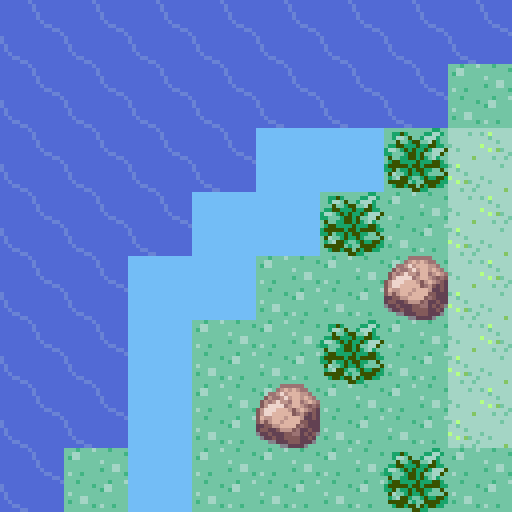
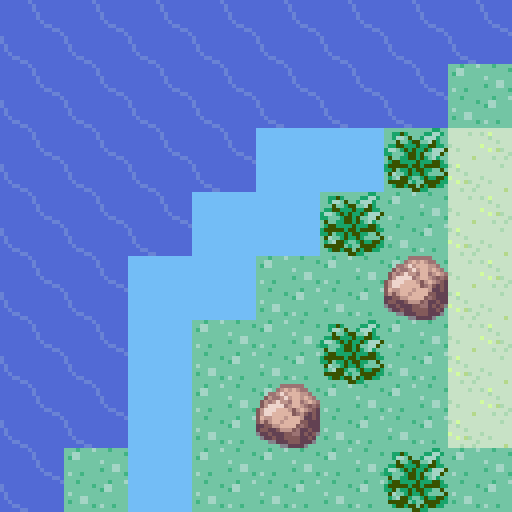
Legendary trials: brighter constellation lines on the island

Changed region(s): [[0.875, 0.25, 1.0, 0.875]]

diff --git a/zepimon-mobile/scripts/build-trial-maps.py b/zepimon-mobile/scripts/build-trial-maps.py
@@ -53,8 +53,10 @@ THEMES = {
     'warp': dict(map='MossdeepCity_Gym', primary='building', secondary='mossdeep_gym', ground=0x20A, path=0x203, grass=0x20A,
                  water=0x221, shore=0x20A, rock=0x204, cap=0x20E, face=0x216, fill=0x208, pond=False),
     # Birth Island's exterior: grass ground, the pale summit path, tall grass, the sea, a shallow pond tile, the cliffs.
+    # path_glow washes the path toward starlight (colour, strength) so the constellation lines clue 2 points to stand out.
     'star': dict(map='BirthIsland_Exterior', primary='general', secondary='dewford', ground=0x001, path=0x1D9, grass=0x00D,
-                 water=0x170, shore=0x0D1, rock=0x0E0, cap=0x06C, face=0x07C, fill=0x074, pond=False),
+                 water=0x170, shore=0x0D1, rock=0x0E0, cap=0x06C, face=0x07C, fill=0x074, pond=False,
+                 path_glow=((255, 246, 200), 0.4)),
 }
 # The General tileset's pond by which sides are land: (north, south, west, east); other shapes use the middle.
 POND = {(1, 0, 1, 0): 0x0C8, (1, 0, 0, 0): 0x0C9, (1, 0, 0, 1): 0x0CA, (0, 0, 1, 0): 0x0D0, (0, 0, 0, 0): 0x0D1,
@@ -205,7 +207,13 @@ def build_rooms(stages):
             number = map_metatile(theme, tiles, x, y)
             if number not in cache:
                 cache[number] = tilesets.metatile(number)
-            return tuple(layer.copy() for layer in cache[number])
+            below, above = (layer.copy() for layer in cache[number])
+            if 'path_glow' in theme and tiles[y][x] == ',':
+                colour, strength = theme['path_glow']
+                lit = Image.blend(below, Image.new('RGBA', below.size, colour + (255,)), strength)
+                lit.putalpha(below.getchannel('A'))
+                below = lit
+            return below, above
         images, chunks = chunk_images(tiles, CHUNK, metatile_for)
         data = dict(id=sid, kind=stage['kind'], tiles=tiles, warps=stage.get('warps', {}), open=''.join(sorted(stage.get('open', ''))),
                     crackAll=bool(stage.get('crackAll', False)), dark=bool(stage.get('dark', False)), par=stage['par'], hint=stage['hint'],
